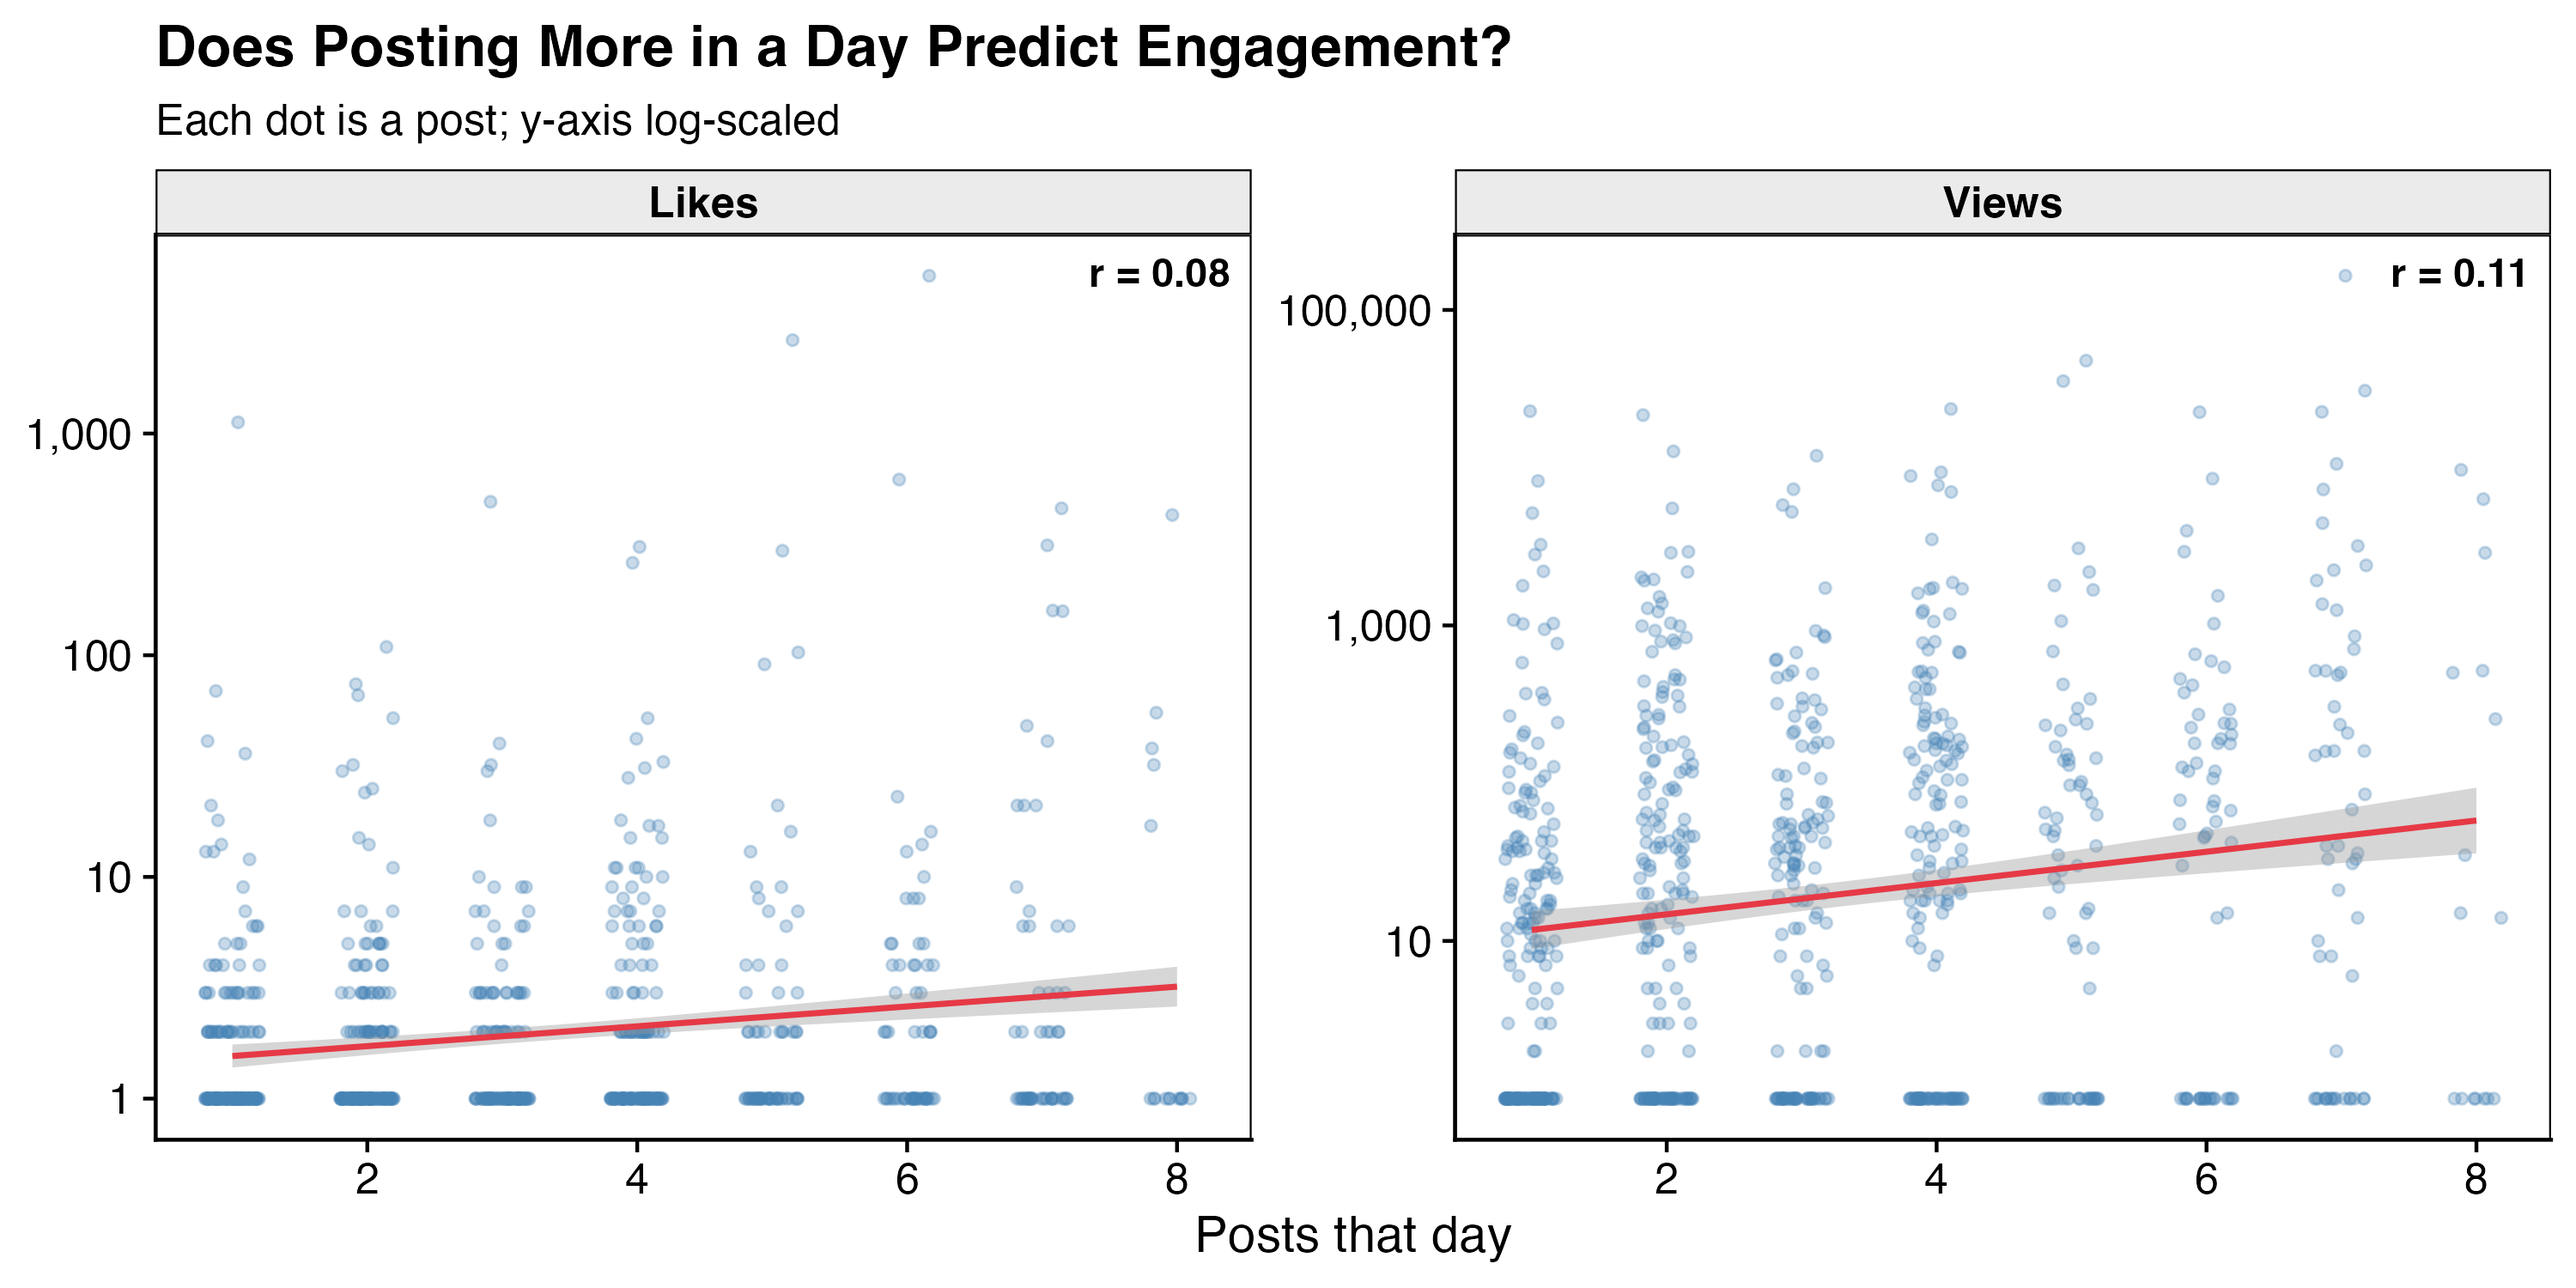
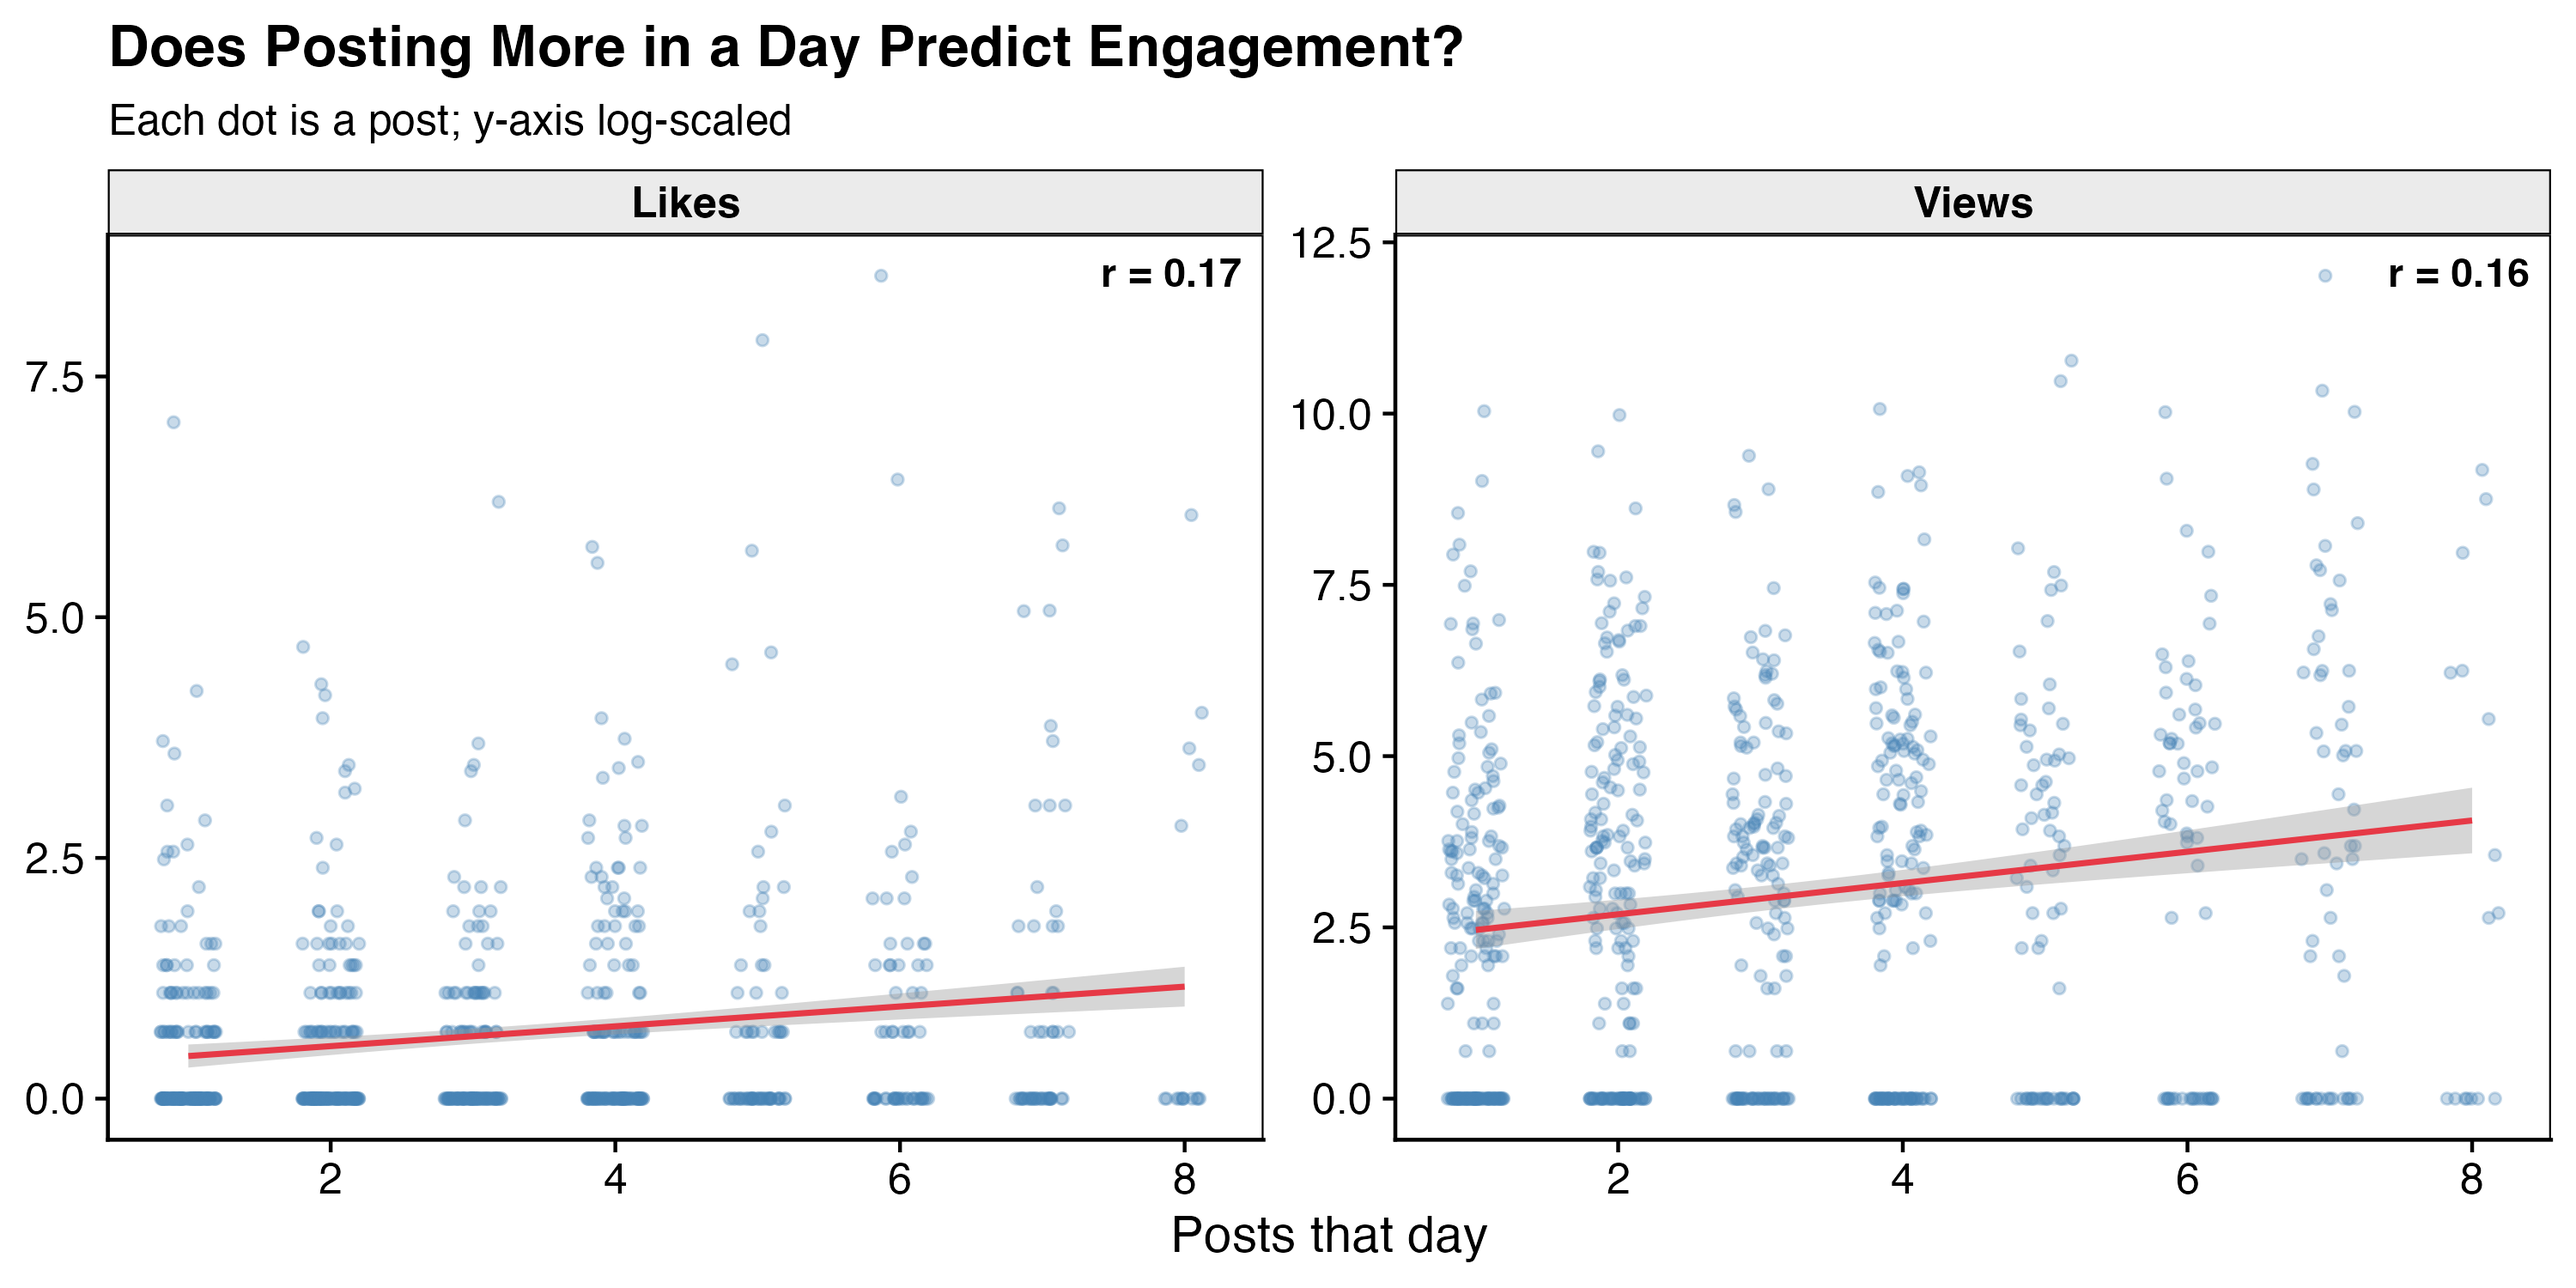
Use log-scale correlations for frequency vs engagement (r=0.16/0.17, consistent with models)

diff --git a/_posts/2026-03-02-catvader-threads-analysis.md b/_posts/2026-03-02-catvader-threads-analysis.md
@@ -264,7 +264,7 @@ One more alternative explanation worth ruling out: volume. Maybe on high-output 
 
 ![](/images/catvader-freq-vs-engagement.png)
 
-The correlations are r = 0.11 for views and r = 0.08 for likes — essentially zero. How many posts I fire off in a day has no meaningful relationship with how any individual post performs. The content effects from the regression aren't a frequency artifact.
+The correlations are r = 0.16 for views and r = 0.17 for likes — essentially zero. How many posts I fire off in a day has no meaningful relationship with how any individual post performs. The content effects from the regression aren't a frequency artifact.
 
 ---
 
